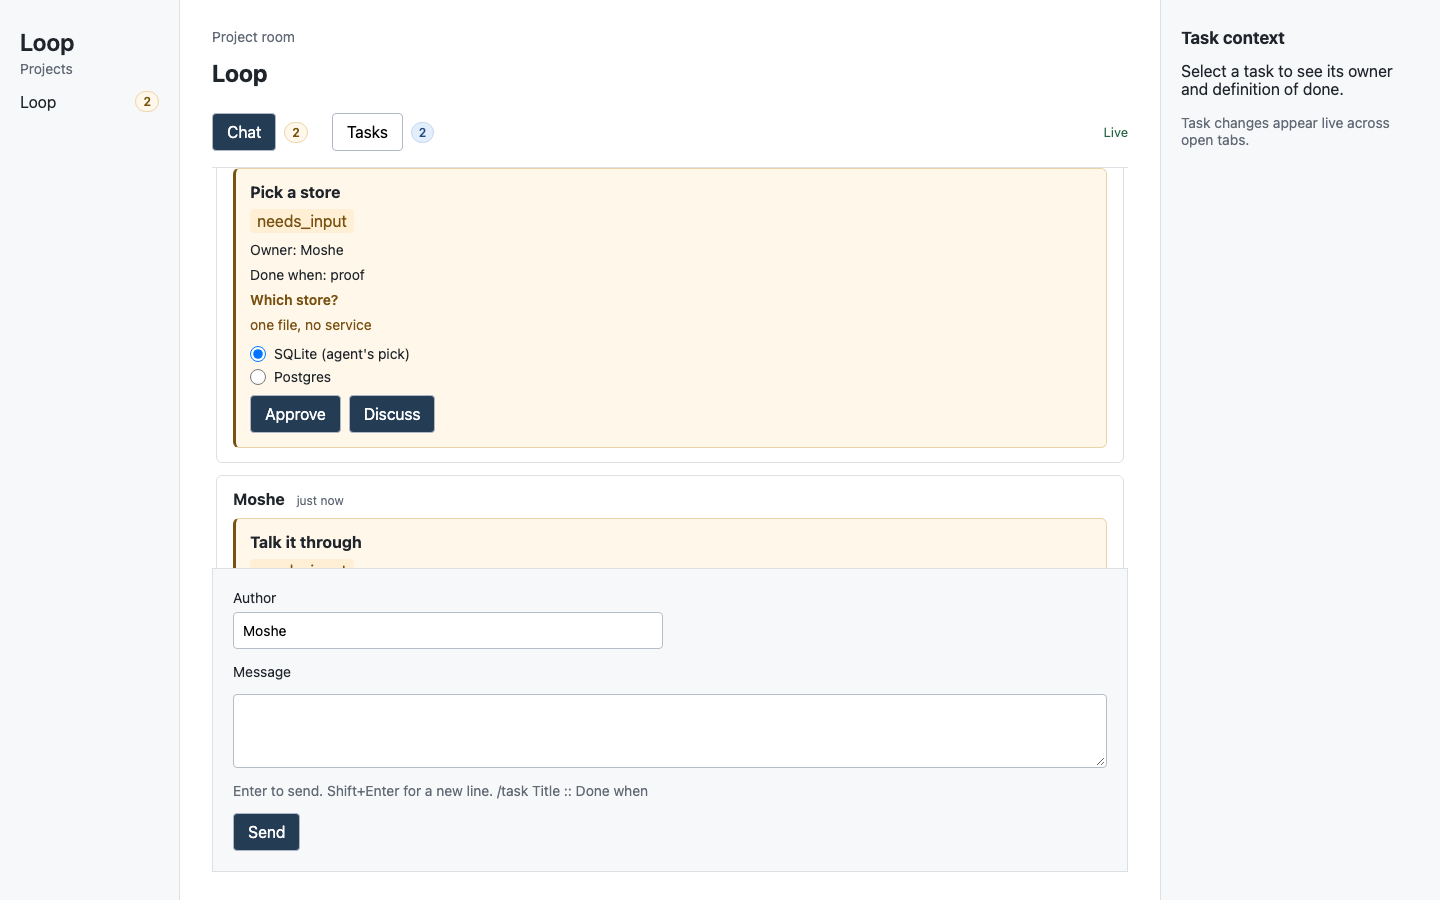
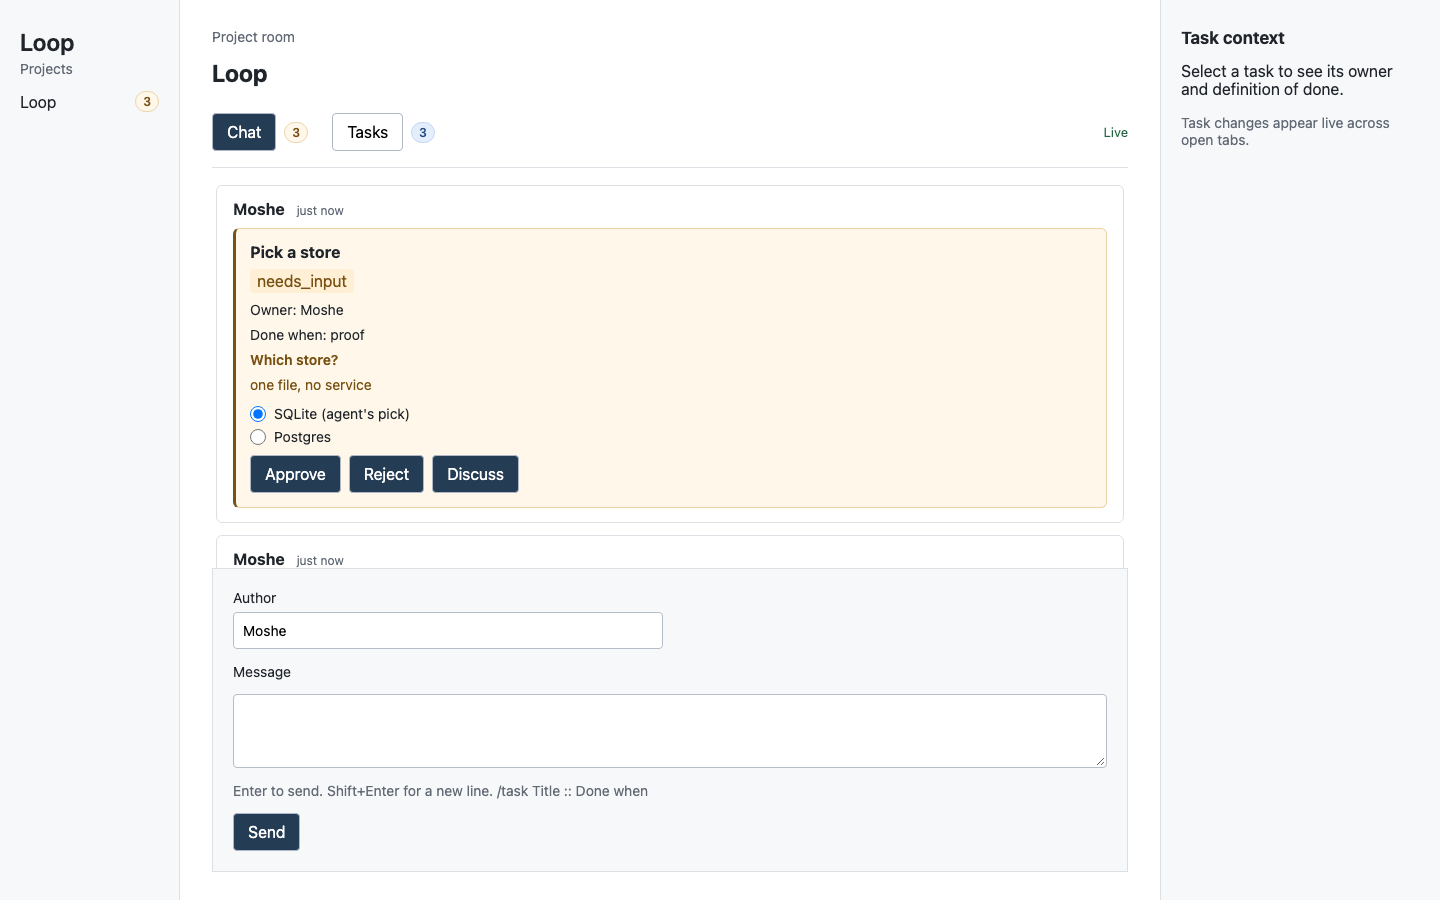
proposal reject: decline a direction without re-running it (#20)

Changed region(s): [[0.1562, 0.1867, 0.75, 0.6533], [0.25, 0.1244, 0.2812, 0.1556]]

diff --git a/tests/proposal-card.spec.ts b/tests/proposal-card.spec.ts
@@ -6,7 +6,7 @@ import { resolve, join } from 'node:path';
 import { once } from 'node:events';
 import type { Message, Task } from '@loop/types';
 
-test('proposal card approves another option and discuss both re-run with LOOP_TASK_CHOICE', async ({ browser, request }) => {
+test('proposal card approves, discusses, and rejects', async ({ browser, request }) => {
   const dir = mkdtempSync(join(tmpdir(), 'loop-propose-'));
   const payload = {
     question: 'Which store?',
@@ -81,29 +81,49 @@ test('proposal card approves another option and discuss both re-run with LOOP_TA
     if (talkMessage.body.kind !== 'task') throw new Error('Expected task card');
     const talkId = talkMessage.body.taskId;
 
+    await page.getByLabel('Message', { exact: true }).fill('/task Decline this :: proof');
+    const postedDecline = page.waitForResponse((response) => response.url().endsWith('/messages') && response.request().method() === 'POST');
+    await page.getByLabel('Message', { exact: true }).press('Enter');
+    const declineMessage = await (await postedDecline).json() as Message;
+    if (declineMessage.body.kind !== 'task') throw new Error('Expected task card');
+    const declineId = declineMessage.body.taskId;
+
     const storeCard = page.locator('.chat-task').filter({ hasText: 'Pick a store' });
     const talkCard = page.locator('.chat-task').filter({ hasText: 'Talk it through' });
+    const declineCard = page.locator('.chat-task').filter({ hasText: 'Decline this' });
     await expect(storeCard.locator('.tp-chip')).toHaveText('needs_input', { timeout: 10_000 });
     await expect(talkCard.locator('.tp-chip')).toHaveText('needs_input', { timeout: 10_000 });
+    await expect(declineCard.locator('.tp-chip')).toHaveText('needs_input', { timeout: 10_000 });
     await expect(storeCard.locator('[data-task-proposal]')).toContainText('Which store?');
     await expect(storeCard.locator('[data-proposal-option="SQLite"] input')).toBeChecked();
     await expect(storeCard.locator('[data-proposal-option="SQLite"]')).toContainText("agent's pick");
     await expect(storeCard.locator('[data-proposal-option="Postgres"] input')).not.toBeChecked();
     await expect(storeCard.getByRole('button', { name: 'Approve', exact: true })).toBeVisible();
+    await expect(storeCard.getByRole('button', { name: 'Reject', exact: true })).toBeVisible();
     await expect(storeCard.getByRole('button', { name: 'Discuss', exact: true })).toBeVisible();
-    // Two cards park at once and one card is taller than half the transcript, so
-    // both cannot be on screen together. The pin shows the newest arrival, so
+    // Three cards park at once and one card is taller than half the transcript, so
+    // they cannot be on screen together. The pin shows the newest arrival, so
     // reach the older one the way a human does, by scrolling to it.
     await storeCard.scrollIntoViewIfNeeded();
     await expect(storeCard.getByRole('button', { name: 'Approve', exact: true })).toBeInViewport({ ratio: 1 });
+    await expect(storeCard.getByRole('button', { name: 'Reject', exact: true })).toBeInViewport({ ratio: 1 });
     // A control that renders is not a control that renders correctly. An unsized
     // radio stretches to the row width and pushes its own label off the edge,
     // which every presence and viewport assertion happily passes.
     const radioWidth = await storeCard.locator('[data-proposal-option="SQLite"] input')
       .evaluate((el) => Math.round(el.getBoundingClientRect().width));
     expect(radioWidth).toBeLessThan(40);
+    const rejectBox = await storeCard.getByRole('button', { name: 'Reject', exact: true })
+      .evaluate((el) => {
+        const box = el.getBoundingClientRect();
+        return { width: Math.round(box.width), height: Math.round(box.height) };
+      });
+    expect(rejectBox.width).toBeGreaterThan(40);
+    expect(rejectBox.width).toBeLessThan(200);
+    expect(rejectBox.height).toBeGreaterThan(20);
+    expect(rejectBox.height).toBeLessThan(60);
     await expect(storeCard.locator('[data-proposal-option="Postgres"]')).toBeInViewport({ ratio: 1 });
-    await expect(page.locator('[data-needs-human]')).toHaveAttribute('data-needs-human', '2');
+    await expect(page.locator('[data-needs-human]')).toHaveAttribute('data-needs-human', '3');
 
     await page.screenshot({ path: resolve('docs/screenshots/proposal-card.png') });
 
@@ -126,6 +146,26 @@ test('proposal card approves another option and discuss both re-run with LOOP_TA
     await expect(talkCard.locator('.tp-chip')).toHaveText('done', { timeout: 10_000 });
     await expect(talkCard.locator('[data-task-result]')).toHaveText('chose discuss');
 
+    const parkedDecline = await (await request.get(`${apiUrl}/tasks/${declineId}`)).json() as Task;
+    expect(parkedDecline.status).toBe('needs_input');
+    const parkedRunId = parkedDecline.runId;
+    const parkedClaimedBy = parkedDecline.claimedBy;
+    await declineCard.scrollIntoViewIfNeeded();
+    const rejected = page.waitForResponse((response) => response.url().includes('/decide') && response.request().method() === 'POST');
+    await declineCard.getByRole('button', { name: 'Reject', exact: true }).click();
+    const rejectedResponse = await rejected;
+    expect(rejectedResponse.status()).toBe(200);
+    const declined = await rejectedResponse.json() as Task;
+    expect(declined.status).toBe('failed');
+    expect(declined.proposalChoice).toBe('reject');
+    expect(declined.error).toBe('Proposal rejected by Moshe: SQLite');
+    await expect(declineCard.locator('.tp-chip')).toHaveText('failed');
+    await expect(declineCard.locator('[data-task-choice]')).toHaveText('Reject by Moshe');
+    await expect(declineCard.locator('[data-task-error]')).toHaveText('Proposal rejected by Moshe: SQLite');
+    await expect(declineCard.locator('[data-task-proposal]')).toBeVisible();
+    await expect(declineCard.getByRole('button', { name: 'Approve', exact: true })).toHaveCount(0);
+    await expect(declineCard.locator('[data-task-result]')).toHaveCount(0);
+
     const storeTask = await (await request.get(`${apiUrl}/tasks/${storeId}`)).json() as Task;
     const talkTask = await (await request.get(`${apiUrl}/tasks/${talkId}`)).json() as Task;
     expect(storeTask.status).toBe('done');
@@ -138,6 +178,25 @@ test('proposal card approves another option and discuss both re-run with LOOP_TA
     expect(talkTask.status).toBe('done');
     expect(talkTask.result).toBe('chose discuss');
     expect(talkTask.proposalChoice).toBeNull();
+
+    const declineTask = await (await request.get(`${apiUrl}/tasks/${declineId}`)).json() as Task;
+    expect(declineTask.status).toBe('failed');
+    expect(declineTask.error).toBe('Proposal rejected by Moshe: SQLite');
+    expect(declineTask.proposalChoice).toBe('reject');
+    expect(declineTask.proposalBy).toBe('Moshe');
+    expect(declineTask.proposal).toEqual(payload);
+    expect(declineTask.runId).toBe(parkedRunId);
+    expect(declineTask.claimedBy).toBe(parkedClaimedBy);
+    expect(declineTask.result).toBeNull();
+    await expect.poll(async () => {
+      const row = await (await request.get(`${apiUrl}/tasks/${declineId}`)).json() as Task;
+      return row.status === 'failed'
+        && row.runId === parkedRunId
+        && row.claimedBy === parkedClaimedBy
+        && row.result === null
+        && row.proposalChoice === 'reject'
+        && row.proposal !== null;
+    }).toBe(true);
   } finally {
     await Promise.all(contexts.map((item) => item.close()));
     await stopApi();

diff --git a/apps/api/test/store-bus.test.ts b/apps/api/test/store-bus.test.ts
@@ -290,7 +290,7 @@ test('decide records a proposal option and discuss, and rejects an unknown choic
   const claimed = store.claim(task.id, 'echo')!;
   store.propose(claimed.id, claimed.runId!, proposal);
   const before = bus.latestId();
-  assert.throws(() => store.decide(task.id, 'MySQL', 'Moshe'), /proposal options or discuss/);
+  assert.throws(() => store.decide(task.id, 'MySQL', 'Moshe'), /proposal options, discuss, or reject/);
   assert.equal(bus.latestId(), before);
   assert.equal(store.get(task.id).status, 'needs_input');
   const decided = store.decide(task.id, 'Postgres', 'Moshe');
@@ -309,6 +309,36 @@ test('decide records a proposal option and discuss, and rejects an unknown choic
   assert.equal(discussed.proposalChoice, 'discuss');
   assert.equal(discussed.status, INITIAL_STATUS);
   assert.throws(() => store.decide('missing', 'SQLite', 'Moshe'), /Task not found/);
+});
+
+test('reject fails the task, keeps the proposal, and does not requeue', () => {
+  const task = store.create(input);
+  const claimed = store.claim(task.id, 'echo')!;
+  store.propose(claimed.id, claimed.runId!, proposal);
+  const before = bus.latestId();
+  const rejected = store.decide(task.id, 'reject', 'Moshe');
+  assert.equal(rejected.status, 'failed');
+  assert.equal(rejected.error, 'Proposal rejected by Moshe: SQLite');
+  assert.equal(rejected.proposalChoice, 'reject');
+  assert.equal(rejected.proposalBy, 'Moshe');
+  assert.deepEqual(rejected.proposal, proposal);
+  assert.equal(rejected.runId, claimed.runId);
+  assert.equal(rejected.claimedBy, 'echo');
+  assert.equal(rejected.result, null);
+  const added = bus.since(before);
+  assert.deepEqual(added.map((event) => event.kind), ['task_status_changed']);
+  if (added[0].kind !== 'task_status_changed') throw new Error('expected status change');
+  assert.equal(added[0].payload.previousStatus, 'needs_input');
+  assert.equal(added[0].payload.task.status, 'failed');
+  assert.equal(store.claim(task.id, 'echo'), null);
+  const after = store.get(task.id);
+  assert.equal(after.status, 'failed');
+  assert.equal(after.runId, claimed.runId);
+  assert.equal(after.claimedBy, 'echo');
+  assert.equal(after.result, null);
+  assert.equal(after.proposalChoice, 'reject');
+  assert.deepEqual(after.proposal, proposal);
+  assert.equal(bus.latestId(), before + 1);
 });
 
 test('finish clears proposal_choice so a later run is a new decision', () => {

diff --git a/apps/web/components/TaskCard.tsx b/apps/web/components/TaskCard.tsx
@@ -54,7 +54,9 @@ export default function TaskCard({ task, author }: { task: Task; author: string 
     event.preventDefault();
     const submitter = (event.nativeEvent as SubmitEvent).submitter;
     const action = submitter instanceof HTMLButtonElement ? submitter.name : '';
-    const decided = action === 'discuss' ? 'discuss' : (choice || task.proposal?.pick || '');
+    const decided = action === 'discuss' || action === 'reject'
+      ? action
+      : (choice || task.proposal?.pick || '');
     if (!decided) return;
     setBusy(true);
     setError('');
@@ -99,12 +101,13 @@ export default function TaskCard({ task, author }: { task: Task; author: string 
         {error && <p role="alert">{error}</p>}
         <div className="review-actions">
           <button type="submit" name="approve" disabled={busy}>Approve</button>
+          <button type="submit" name="reject" disabled={busy}>Reject</button>
           <button type="submit" name="discuss" disabled={busy}>Discuss</button>
         </div>
       </form>}
     </div>}
     {task.proposalChoice && <p data-task-choice className="task-choice">
-      {task.proposalChoice === 'discuss' ? 'Discuss' : task.proposalChoice} by {task.proposalBy ?? 'unknown'}
+      {task.proposalChoice === 'discuss' ? 'Discuss' : task.proposalChoice === 'reject' ? 'Reject' : task.proposalChoice} by {task.proposalBy ?? 'unknown'}
     </p>}
     {waiting && <form className="answer-form" onSubmit={submit}>
       <label>Answer<textarea value={answer} onChange={(event) => setAnswer(event.target.value)}

diff --git a/apps/api/src/task-store.ts b/apps/api/src/task-store.ts
@@ -200,12 +200,26 @@ export class TaskStore {
         throw new BadRequestException('Task is not waiting for a decision');
       }
       if (!isProposalChoice(current.proposal, choice)) {
-        throw new BadRequestException('choice must be one of the proposal options or discuss');
+        throw new BadRequestException('choice must be one of the proposal options, discuss, or reject');
       }
       const ts = new Date().toISOString();
-      const task = this.database.db.update(tasks).set({
-        proposalChoice: choice, proposalBy: decidedBy, status: INITIAL_STATUS, updatedAt: ts,
-      }).where(and(eq(tasks.id, id), eq(tasks.status, 'needs_input'))).returning().get();
+      const declined = choice === 'reject';
+      const fields = declined
+        ? {
+            proposalChoice: choice,
+            proposalBy: decidedBy,
+            status: 'failed' as const,
+            error: `Proposal rejected by ${decidedBy}: ${current.proposal.pick}`,
+            updatedAt: ts,
+          }
+        : {
+            proposalChoice: choice,
+            proposalBy: decidedBy,
+            status: INITIAL_STATUS,
+            updatedAt: ts,
+          };
+      const task = this.database.db.update(tasks).set(fields)
+        .where(and(eq(tasks.id, id), eq(tasks.status, 'needs_input'))).returning().get();
       if (!task) {
         this.get(id);
         throw new BadRequestException('Task is not waiting for a decision');

diff --git a/packages/types/test/proposal.test.ts b/packages/types/test/proposal.test.ts
@@ -26,5 +26,6 @@ test('parseTaskProposal accepts a complete proposal and rejects malformed ones',
   assert.match(missing.error, /missing why/);
   assert.equal(isProposalChoice(valid, 'SQLite'), true);
   assert.equal(isProposalChoice(valid, 'discuss'), true);
+  assert.equal(isProposalChoice(valid, 'reject'), true);
   assert.equal(isProposalChoice(valid, 'MySQL'), false);
 });

diff --git a/packages/types/src/proposal.ts b/packages/types/src/proposal.ts
@@ -55,5 +55,5 @@ export function parseTaskProposal(raw: string): { proposal: TaskProposal } | { e
 }
 
 export function isProposalChoice(proposal: TaskProposal, choice: string): boolean {
-  return choice === 'discuss' || proposal.options.includes(choice);
+  return choice === 'discuss' || choice === 'reject' || proposal.options.includes(choice);
 }

diff --git a/EVIDENCE.md b/EVIDENCE.md
@@ -2,7 +2,7 @@
 
 Generated by `npm run evidence` from repository facts plus the lint, test, and build commands.
 Browser tests are listed by spec name and are not executed here.
-Parent commit: d8a4c57b0164a75e8edc9a2b8d5367e34f5915b9
+Parent commit: fd5ab58cd0feead783e219dd62f8b143cbe85525
 The recorded SHA is the commit the generator ran against. This file is committed afterwards, so the SHA is the parent of the evidence commit. The staleness gate ignores that line.
 
 ## Workspaces
@@ -28,7 +28,7 @@ Status vocabulary gate: PASS (no mirrored status lists in apps or packages)
 Prose gate: PASS (no em dashes in tracked files)
 ```
 
-Test exit 0. TAP totals: tests 66, pass 66, fail 0, skipped 0.
+Test exit 0. TAP totals: tests 67, pass 67, fail 0, skipped 0.
 
 ```text
 > test
@@ -47,8 +47,8 @@ Test exit 0. TAP totals: tests 66, pass 66, fail 0, skipped 0.
 > npm run build && node --test dist/test/*.test.js
 > @loop/api@0.0.0 build
 > tsc -p tsconfig.json
-# tests 58
-# pass 58
+# tests 59
+# pass 59
 # fail 0
 # cancelled 0
 # skipped 0
@@ -99,7 +99,7 @@ tests/live-feed.spec.ts
 - two tabs receive creates and status changes, then reconnect and replay after API restart
 
 tests/proposal-card.spec.ts
-- proposal card approves another option and discuss both re-run with LOOP_TASK_CHOICE
+- proposal card approves, discusses, and rejects
 
 tests/question-card.spec.ts
 - question card answers in the browser and the same task reaches done
